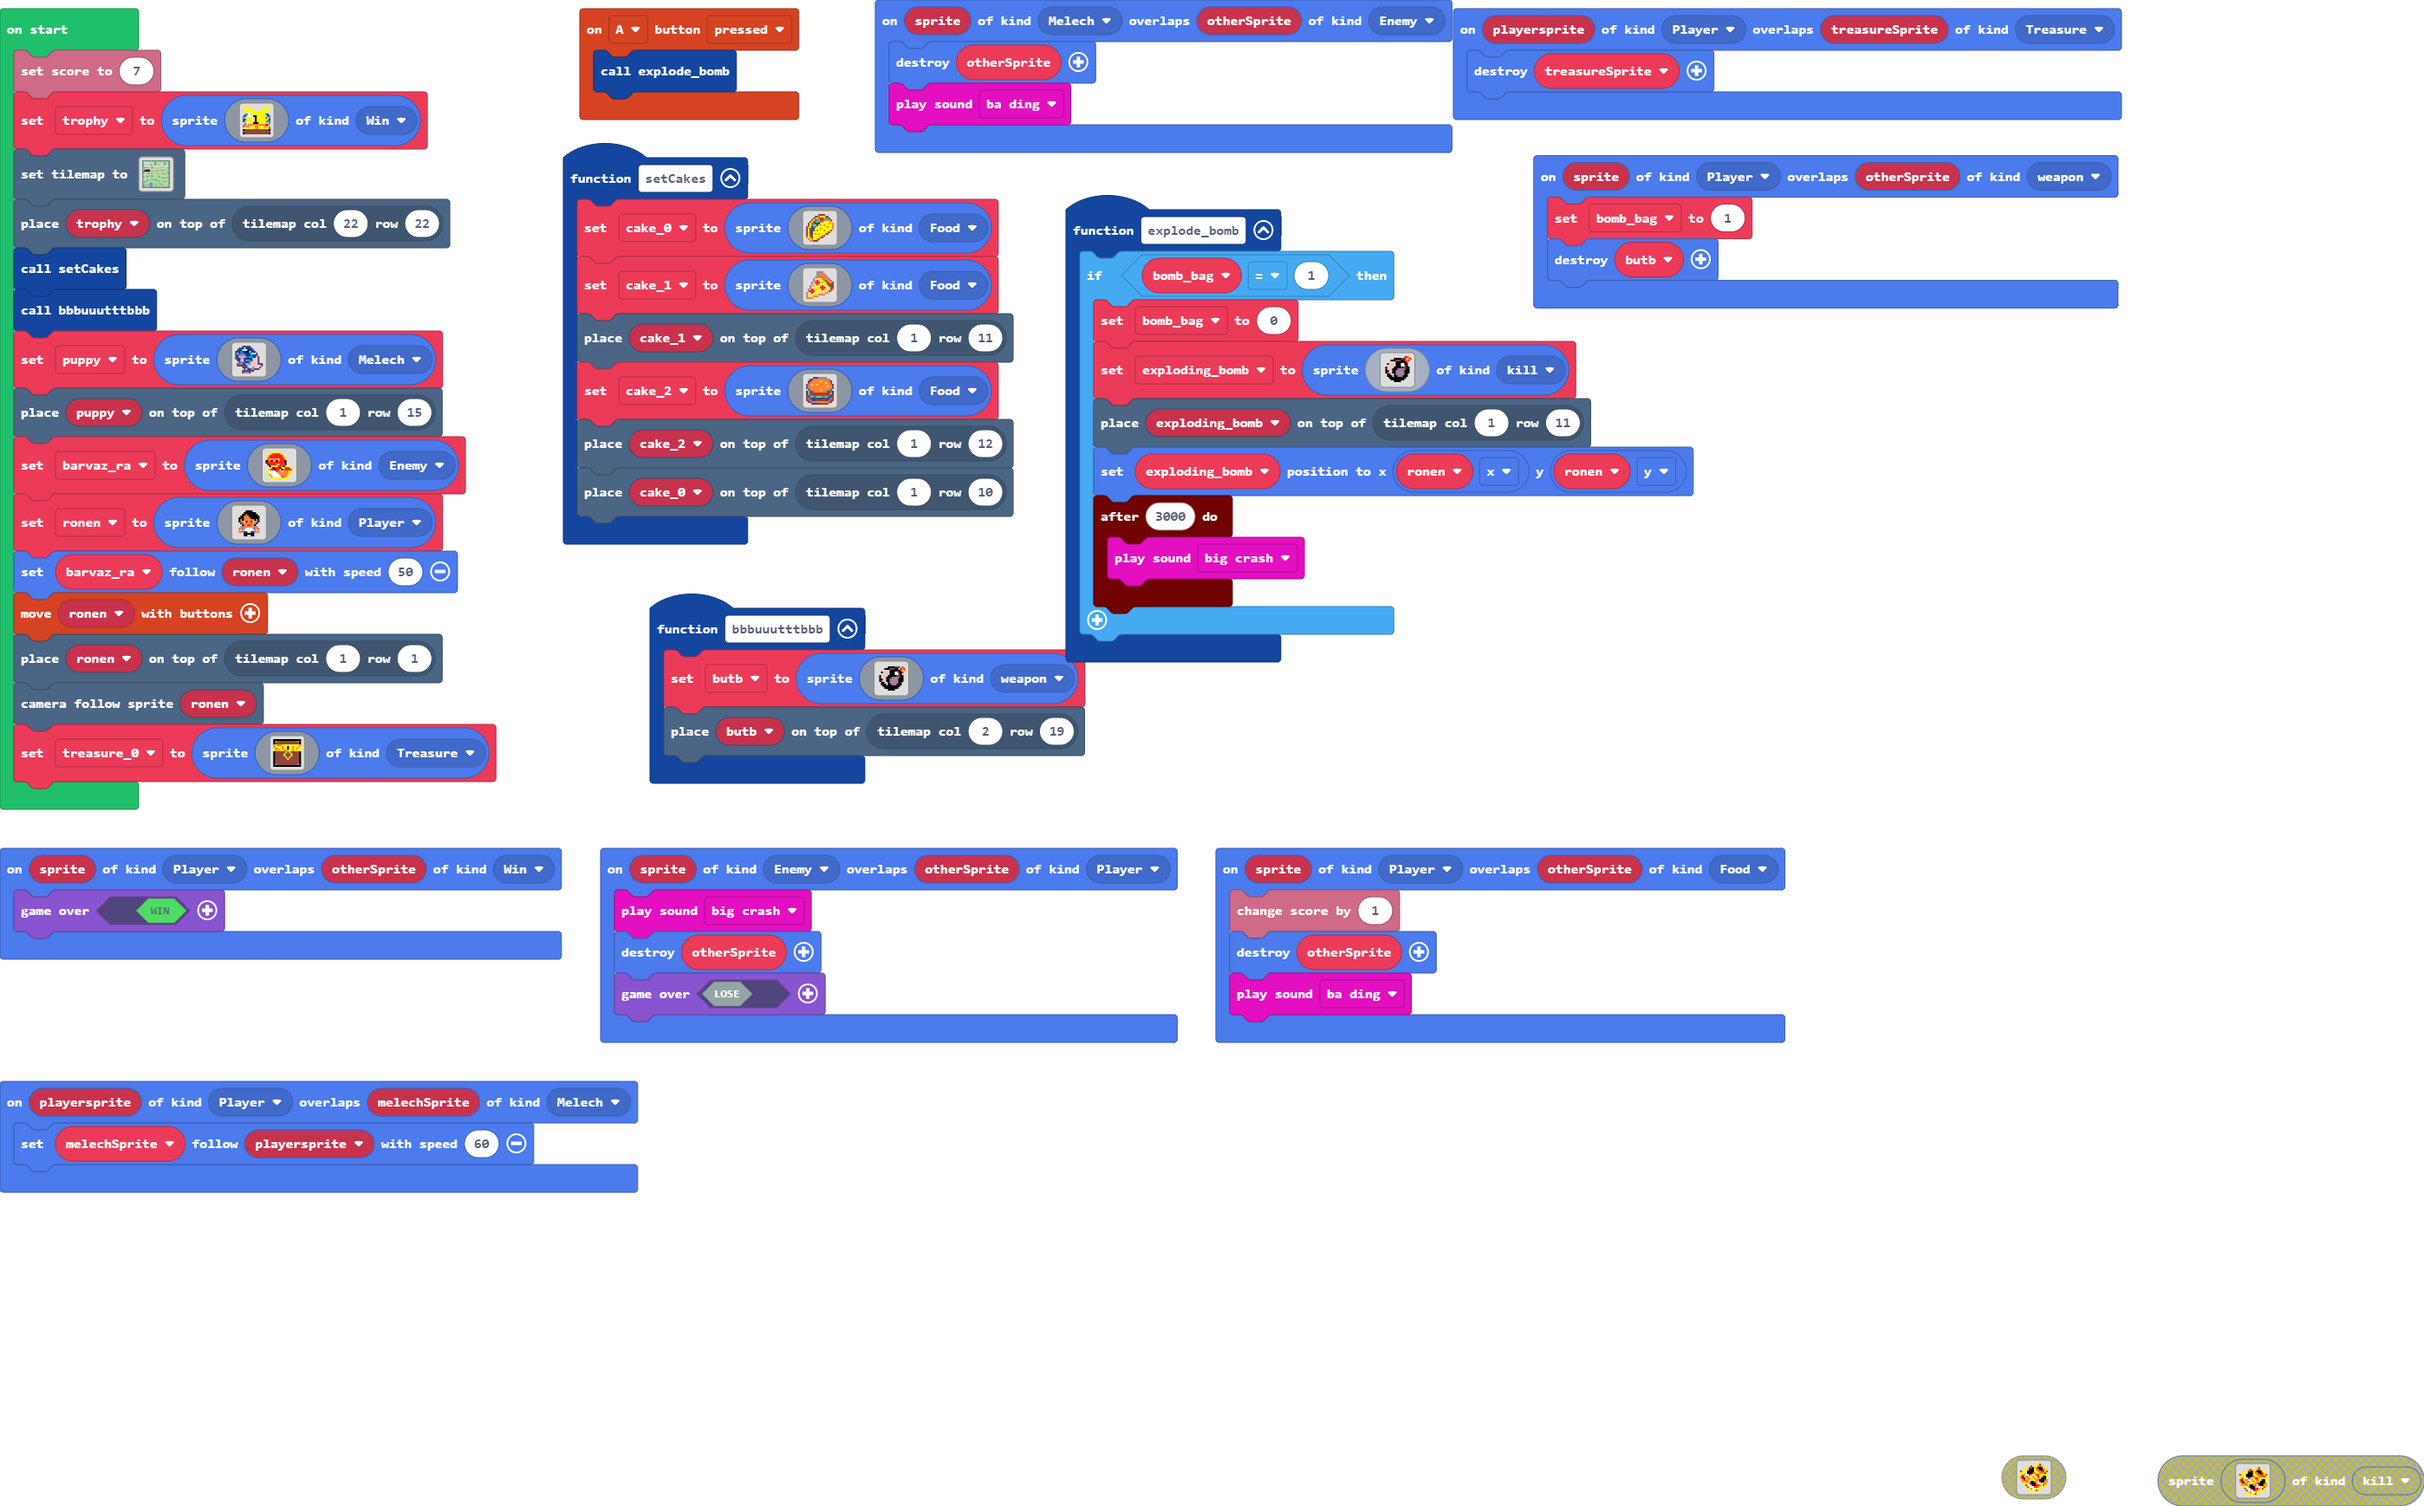
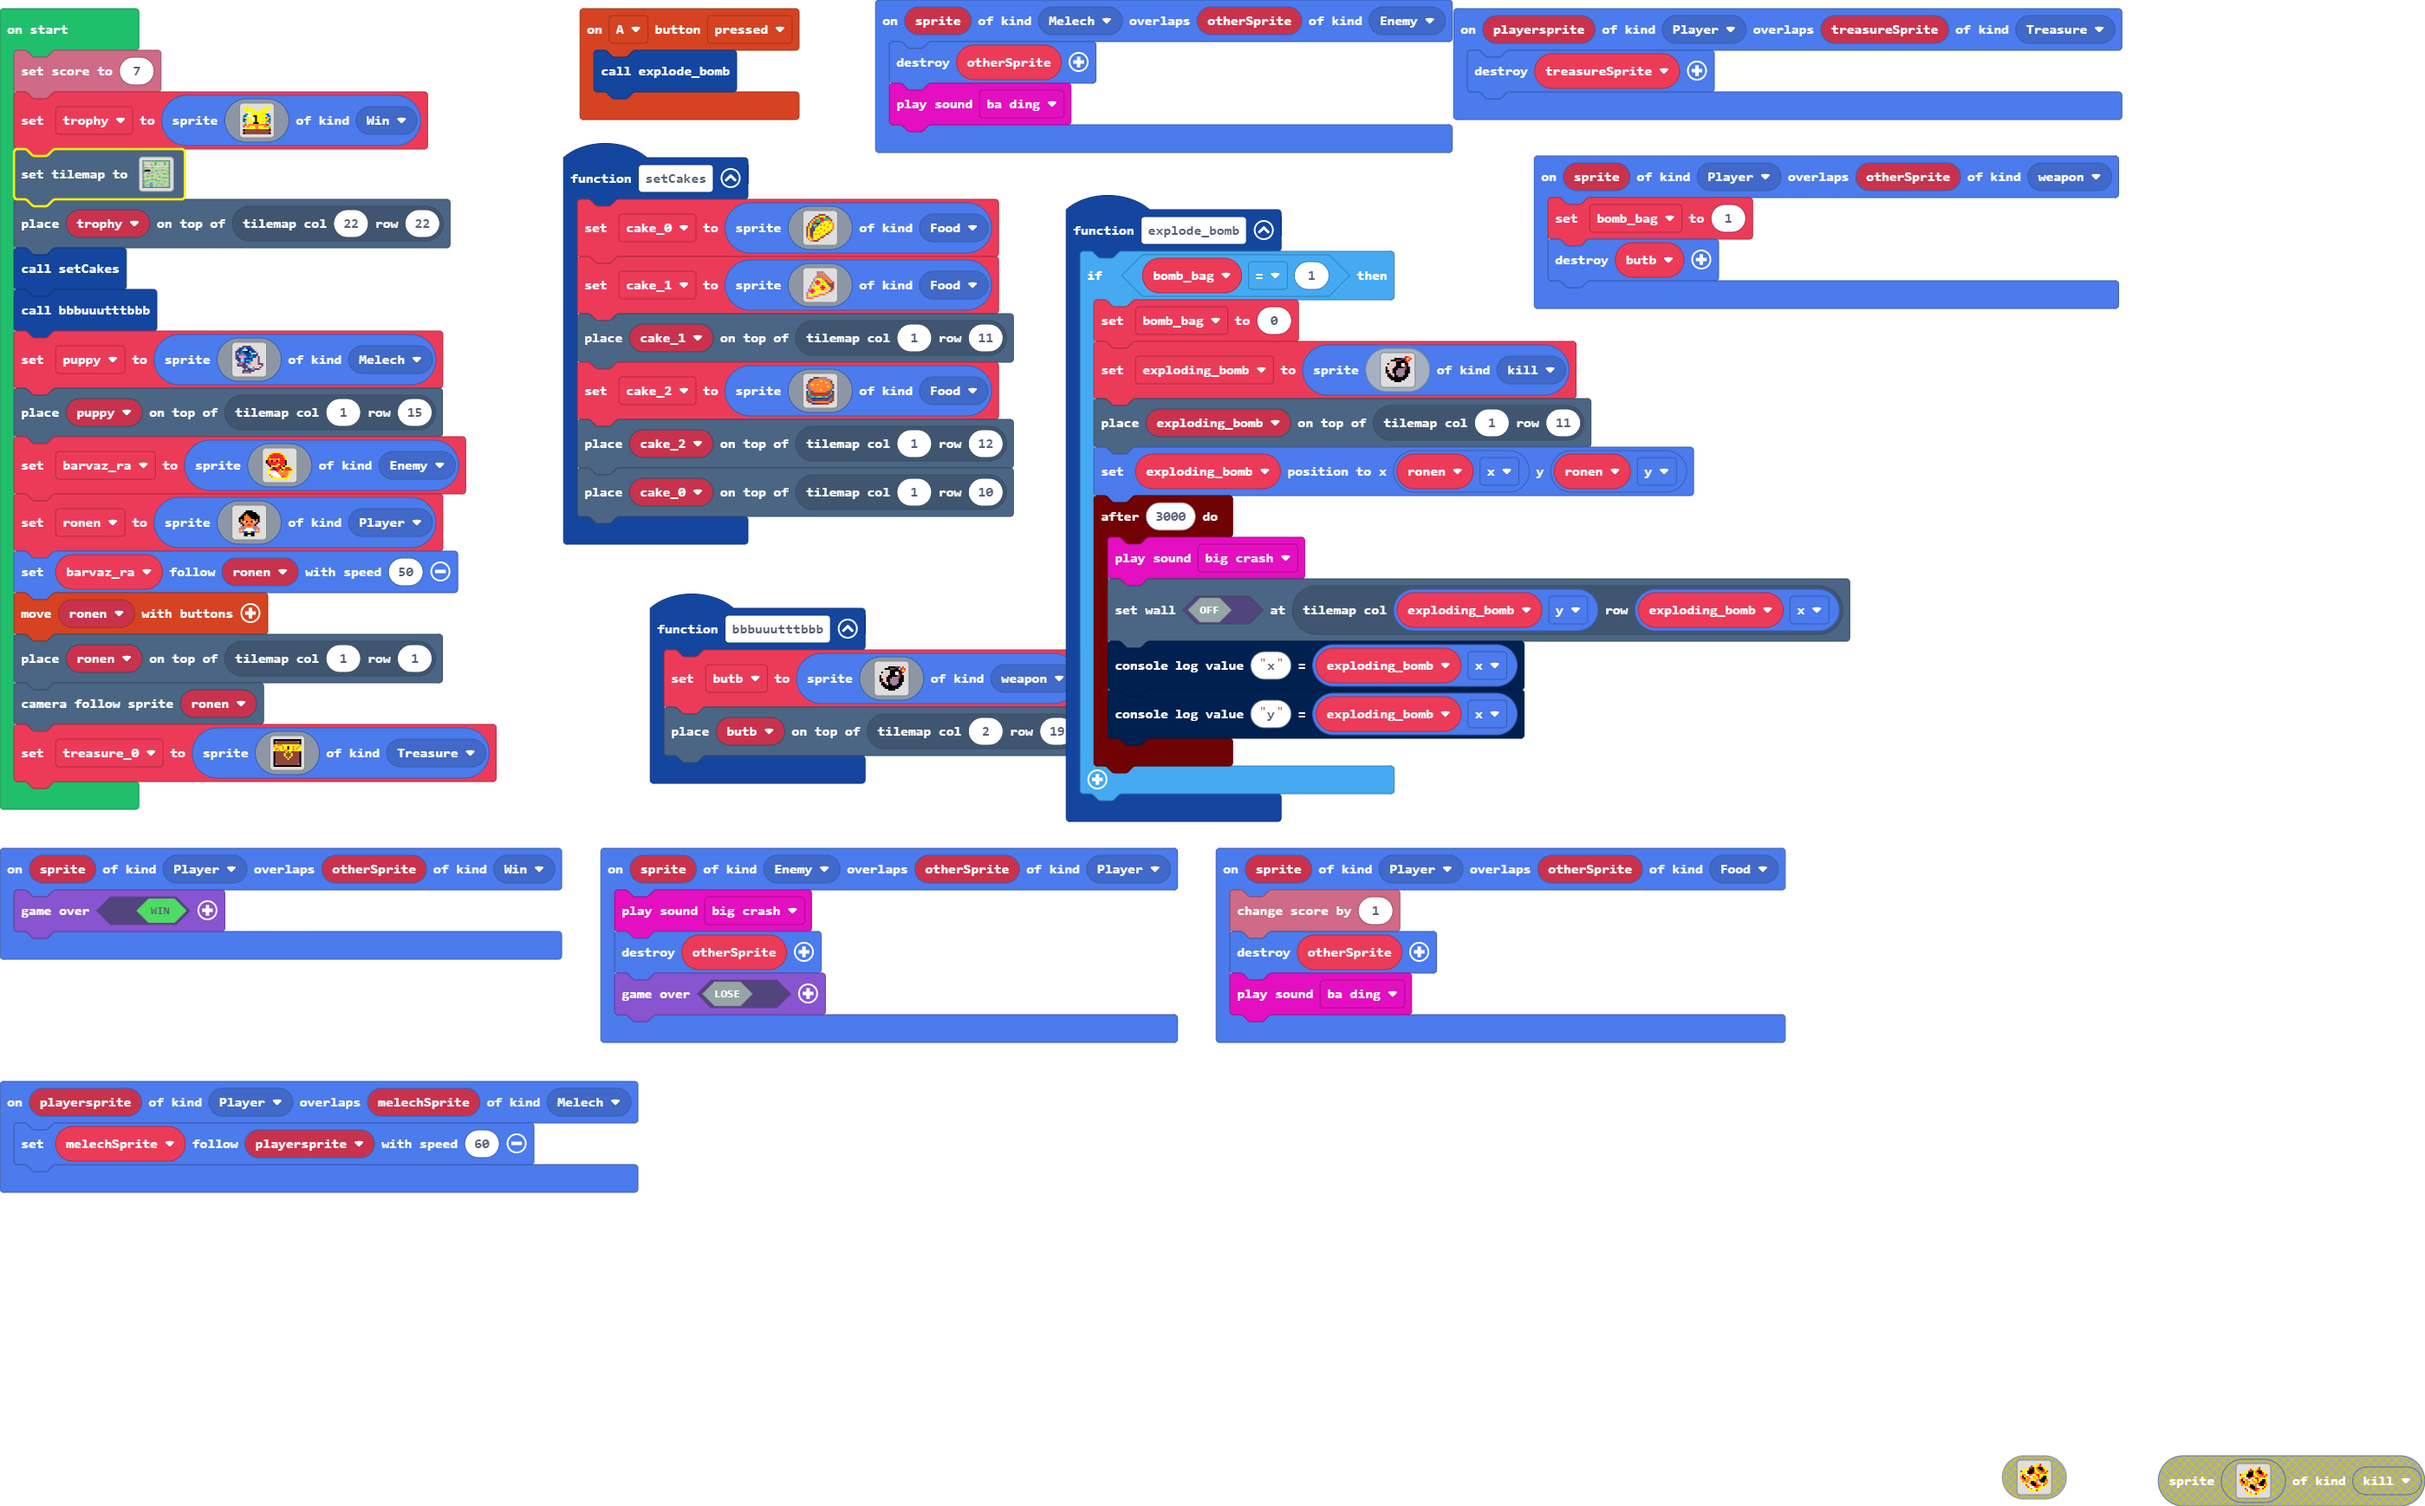
Update pxt.json, main.blocks, main.ts, tilemap.g.jres, tilemap.g.ts

diff --git a/tilemap.g.ts b/tilemap.g.ts
@@ -73,7 +73,7 @@ namespace myTiles {
 . . . . . . . . . . . . . . . . 
 `, [myTiles.transparency16], TileScale.Sixteen);
             case "level1":
[2 lines of base64/hex data omitted]
 222222222222222222222222
 2.2....................2
 2.2...2222...2.2.2...2.2

diff --git a/main.ts b/main.ts
@@ -133,6 +133,9 @@ function explode_bomb () {
         exploding_bomb.setPosition(ronen.x, ronen.y)
         timer.after(3000, function () {
             music.bigCrash.play()
+            tiles.setWallAt(tiles.getTileLocation(exploding_bomb.y, exploding_bomb.x), false)
+            console.logValue("x", exploding_bomb.x)
+            console.logValue("y", exploding_bomb.x)
         })
     }
 }
